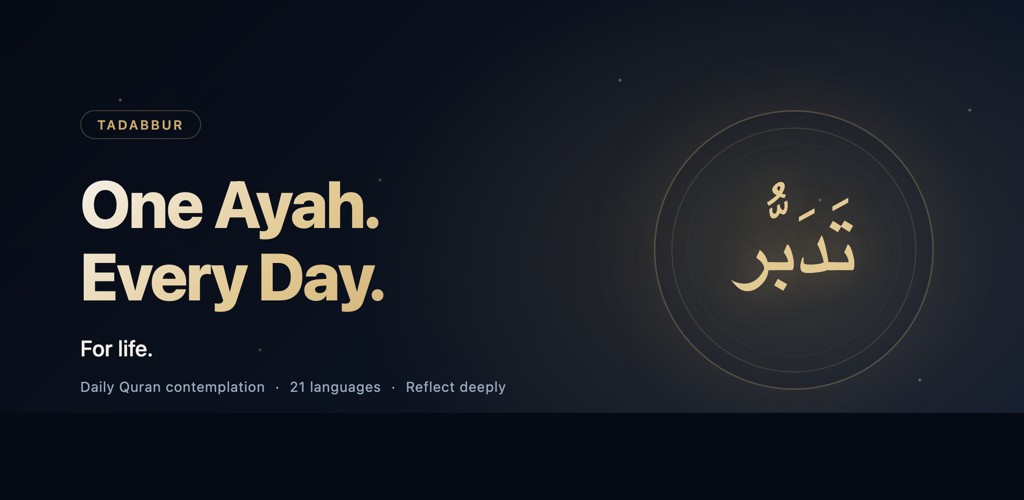
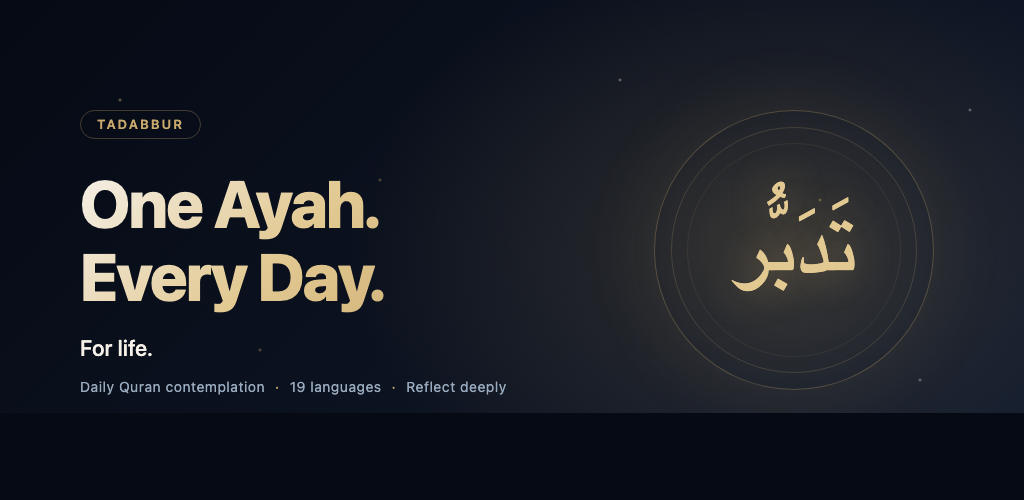
updates

diff --git a/lib/core/providers/app_providers.dart b/lib/core/providers/app_providers.dart
@@ -318,16 +318,20 @@ class UserProgressNotifier extends StateNotifier<UserProgress> {
   }
 
   /// Sync activity with Quran Foundation APIs.
-  /// Non-blocking — local writes already succeeded, so a QF failure
-  /// means the quran.com mirror is lagging, not that the user lost
-  /// data. Surfaced to the UI as a subtle banner so the user knows
-  /// their stats on quran.com may be out of date.
+  /// Non-blocking and best-effort. The local write has already
+  /// succeeded by the time we get here, so a QF failure means only
+  /// that the quran.com mirror is lagging. We log to Crashlytics for
+  /// observability but do NOT surface a user-visible banner: the user
+  /// can't act on it (refresh-token recovery is automatic), and
+  /// alarming them on every failure creates noise on flaky networks.
   void _syncWithQF(DateTime now) {
     _userApi.updateStreak().catchError((Object e) {
-      SyncReporter.report('streak · quran.com', e);
+      SyncReporter.report('streak · quran.com', e,
+          severity: SyncSeverity.quiet);
     });
     _userApi.logActivityDay(now).catchError((Object e) {
-      SyncReporter.report('activity · quran.com', e);
+      SyncReporter.report('activity · quran.com', e,
+          severity: SyncSeverity.quiet);
     });
   }
 
@@ -561,7 +565,8 @@ class BookmarkNotifier extends StateNotifier<List<Bookmark>> {
     await _storage.saveBookmarks(state);
 
     _userApi.addBookmark(verseKey).catchError((Object e) {
-      SyncReporter.report('bookmark · quran.com', e);
+      SyncReporter.report('bookmark · quran.com', e,
+          severity: SyncSeverity.quiet);
     });
 
     // Firestore write is queued for replay via the pending key, so
@@ -596,7 +601,8 @@ class BookmarkNotifier extends StateNotifier<List<Bookmark>> {
     final qfBookmarkId = bookmark?.qfBookmarkId;
     if (qfBookmarkId != null) {
       _userApi.removeBookmark(qfBookmarkId).catchError((Object e) {
-        SyncReporter.report('bookmark · quran.com', e);
+        SyncReporter.report('bookmark · quran.com', e,
+            severity: SyncSeverity.quiet);
       });
     }
 
@@ -820,7 +826,8 @@ class JournalNotifier extends StateNotifier<List<JournalEntry>> {
     // Auto-bookmark on QF when user wrote a reflection (Tier 2/3)
     if (entry.tier != ReflectionTier.acknowledge && entry.responseText != null) {
       _userApi.addBookmark(entry.verseKey).catchError((Object e) {
-        SyncReporter.report('bookmark · quran.com', e);
+        SyncReporter.report('bookmark · quran.com', e,
+            severity: SyncSeverity.quiet);
       });
     }
   }
@@ -847,7 +854,8 @@ class JournalNotifier extends StateNotifier<List<JournalEntry>> {
           },
         )
         .catchError((Object e) {
-      SyncReporter.report('reflection · quran.com', e);
+      SyncReporter.report('reflection · quran.com', e,
+          severity: SyncSeverity.quiet);
     });
   }
 

diff --git a/play_store_assets/feature_graphic.html b/play_store_assets/feature_graphic.html
@@ -152,7 +152,7 @@
       <div class="brand-mark">Tadabbur</div>
       <div class="headline">One Ayah.<br>Every Day.</div>
       <div class="tagline">For life.</div>
-      <div class="subtitle">Daily Quran contemplation<span class="dot">·</span>21 languages<span class="dot">·</span>Reflect deeply</div>
+      <div class="subtitle">Daily Quran contemplation<span class="dot">·</span>19 languages<span class="dot">·</span>Reflect deeply</div>
     </div>
     <div class="medallion">
       <div class="medallion-arabic">تَدَبُّر</div>

diff --git a/play_store_assets/PLAY_STORE_LISTING.md b/play_store_assets/PLAY_STORE_LISTING.md
@@ -1,0 +1,174 @@
+# Play Store Listing — Tadabbur
+
+Copy-paste content for [Play Console](https://play.google.com/console) → Tadabbur → Main Store Listing.
+
+---
+
+## App name (max 30 chars)
+
+**Tadabbur — One Ayah a Day**
+
+*(28 chars)*
+
+Alternates if you want to test:
+- *Tadabbur · Daily Quran* — 22 chars
+- *Tadabbur — Daily Quran* — 22 chars
+
+---
+
+## Short description (max 80 chars)
+
+**One ayah a day. Sit with it. A daily Quran practice that lasts past Ramadan.**
+
+*(78 chars)*
+
+Alternate:
+- *Daily Quran contemplation. One verse a day. Reflect, journal, return.* (69 chars)
+
+---
+
+## Full description (max 4000 chars)
+
+```
+Most Quran apps optimise for volume — long reading streaks, full-surah sessions, leaderboards. That works for the small minority who already have the habit. For everyone else, it produces guilt the moment Ramadan ends.
+
+Tadabbur takes the opposite bet: depth over volume. One ayah a day. Sixty seconds. For life.
+
+The thesis is simple — a verse contemplated deeply, repeated daily, becomes the relationship. Not the volume.
+
+WHAT YOU GET
+
+• A daily ayah, sequential. From Al-Fatiha through An-Nas, one verse at a time. Uthmani Arabic, 5 font options, optional transliteration. Audio from 7 world-renowned reciters via Quran Foundation.
+
+• A three-tier reflection system. Acknowledge with one tap on a hard day. Respond with a line on a thoughtful one. Reflect deeply when something stirs. The all-or-nothing failure mode that kills habit apps doesn't exist here.
+
+• Feelings mode. When you come not for the daily routine but because life is hard, pick how you're feeling — anxious, grateful, lost, hopeful — and receive one of 90 curated ayat mapped to that state, with audio and context.
+
+• A journal that becomes a spiritual autobiography. Every reflection timestamped, tied to its verse, searchable. Streaks track gently with three "freezes" that absorb life without breaking the thread. Group entries by time (a diary) or by surah (a personal commentary).
+
+• Identity-based notifications. Most apps shame ("You broke your streak!"). Tadabbur affirms self-concept ("Day 7. You're someone who shows up."). The wording shifts at every milestone.
+
+DESIGNED WITH CARE
+
+• 19 languages with full UI translation: English, Arabic, Urdu, French, Spanish, Turkish, Indonesian, Malay, Bengali, Hindi, German, Russian, Portuguese, Persian, Tamil, Swahili, Chinese, Japanese, Korean.
+
+• Scholarly foundation. 1,300+ pre-bundled tafsir summaries (Ibn Kathir English + Al-Muyassar Arabic) for offline access. 130 curated editorial entries draw on Ibn Kathir, Imam Al-Sa'di, Al-Qurtubi, Al-Tabari, Ibn al-Qayyim — each surfaced with attribution so you can see the source.
+
+• Privacy-first. Deny-by-default Firestore rules. Reflections are private by default; only Tier-3 reflections can opt into the public Quran Reflect feed via the Quran Foundation API, one at a time. No social layer. No leaderboards.
+
+• Quran Foundation integration. Sign in with quran.com to sync streaks, reflections, and bookmarks across devices. Or stay in Guest mode — full local functionality, nothing leaves your phone.
+
+• Offline-first. The daily flow works on a flight or in a desert. Tafsir summaries and editorial content ship in the app.
+
+PERSONALIZATION
+
+• Choose your starting surah, Arabic reading level, and motivation during onboarding.
+• Pick from 7 reciters, 5 Arabic fonts, 4 sizes.
+• Daily reminder at the time you choose.
+• Hijri or Gregorian dates in the journal.
+• Translation in your preferred language.
+
+WHAT'S DELIBERATELY NOT HERE
+
+No social feed. No leaderboards. No public friend lists. No streak shaming. No notifications shouted at you. No memorization gamification. The Quran is not a game.
+
+A note from the builder: I built this for the Muslim I want to be — the one who shows up to the Mushaf every day, even briefly, even imperfectly, for a long time. If it helps even one other person carry that thread past Ramadan, it was worth the time.
+
+— Mohammed Taukheer
+```
+
+*(approx 3,250 characters)*
+
+---
+
+## Category
+
+**Books & Reference** (primary)
+
+Alternate consideration: *Lifestyle*. But Books & Reference is where the established Quran apps live (Quran.com, Muslim Pro Quran, etc.) and where users searching for *"Quran"* expect to find apps. Lifestyle would underplay the scholarly foundation.
+
+---
+
+## Content rating questionnaire — expected outcome
+
+When you fill out the IARC questionnaire in Play Console, your answers should land Tadabbur at:
+
+- **Everyone** rating
+- **No** to: violence, sexual content, profanity, controlled substances, gambling, user-generated content visible to others (the journal is private; only opt-in Tier-3 sharing reaches Quran Reflect, which is hosted by quran.com — they handle moderation), in-app purchases, location sharing, advertising.
+
+---
+
+## Tags / keywords
+
+Play Console doesn't have explicit keyword fields anymore (search uses the full description). But for discoverability, ensure these phrases appear naturally in the description above (they do):
+
+- *Quran*, *Quran app*, *Daily Quran*
+- *Tadabbur*, *contemplation*, *reflection*
+- *Ayah*, *daily verse*
+- *Tafsir*, *Ibn Kathir*
+- *Muslim*, *Islamic app*
+
+---
+
+## Contact details
+
+- **Email:** thetadabburapp@gmail.com
+- **Website:** https://github.com/taukheer/Tadabbur (or a future tadabbur.app domain)
+- **Phone:** *leave blank — not required for Play Console*
+
+---
+
+## Privacy Policy URL
+
+Required for Play Console. Two options:
+
+1. **Quick path:** GitHub Pages serves the existing `PRIVACY_POLICY.md` automatically once you enable Pages. URL would be `https://taukheer.github.io/Tadabbur/PRIVACY_POLICY.html`.
+2. **Tomorrow path:** add a custom domain (`tadabbur.app/privacy`).
+
+For the first submission, GitHub Pages is fine. Set it up via *Repo → Settings → Pages → Branch: main, root*.
+
+---
+
+## Graphics required for the listing
+
+Already in `play_store_assets/`:
+
+- ✅ **App icon (512×512 PNG)** — `app_icon_512.png`. Updated with the new design.
+- ✅ **Feature graphic (1024×500 PNG)** — `feature_graphic.png`. Just regenerated with "19 languages."
+- ⚠ **Phone screenshots (4–8)** — `screenshots/Image 1.png` through `Image 7.png` exist but are from April 8, predate the new icon, splash, and Tamil/Arabic translations. **Should be re-captured before submission.** Best screens to capture:
+  1. Daily ayah hub (with audio button + tier buttons visible)
+  2. Reflection writing surface (mid-flow)
+  3. Feelings picker
+  4. Journal home (heatmap visible)
+  5. Journal entry detail
+  6. Settings (showing "Names and styles synced from Quran Foundation")
+  7. Onboarding language picker (shows the 19-language reach)
+- *(Optional)* **Tablet screenshots** — skip unless targeting iPad later. The Play Store doesn't penalize phone-only listings.
+- *(Optional)* **Promo video** — skip for first submission. Add post-hackathon if you record a real one.
+
+---
+
+## Track strategy (recommended)
+
+For a hackathon-context first submission, use:
+
+1. **Internal testing** track first — invite yourself + a few testers via Google Group. Confirms signing, Firebase wiring, OAuth deep links work in production.
+2. **Closed testing** (open to a small Muslim community list, friends, hackathon judges) — gather real feedback for ~7 days.
+3. **Production** track — only after Step 2 surfaces no critical bugs.
+
+For the hackathon submission itself, the **Closed testing track URL** is what you'd put in SUBMISSION.md — judges install from there without you needing to publish to public production.
+
+---
+
+## Release notes for this version (1.8.0+62)
+
+```
+First public release.
+
+• 19 languages with full UI translation
+• Three-tier reflection system: Acknowledge, Respond, Reflect
+• Daily ayah from Al-Fatiha to An-Nas, with audio from 7 reciters
+• 1,300+ pre-bundled tafsir summaries for offline reading
+• Sign in with Quran Foundation, Google, or stay in Guest mode
+• Privacy-first: reflections are private by default
+```
